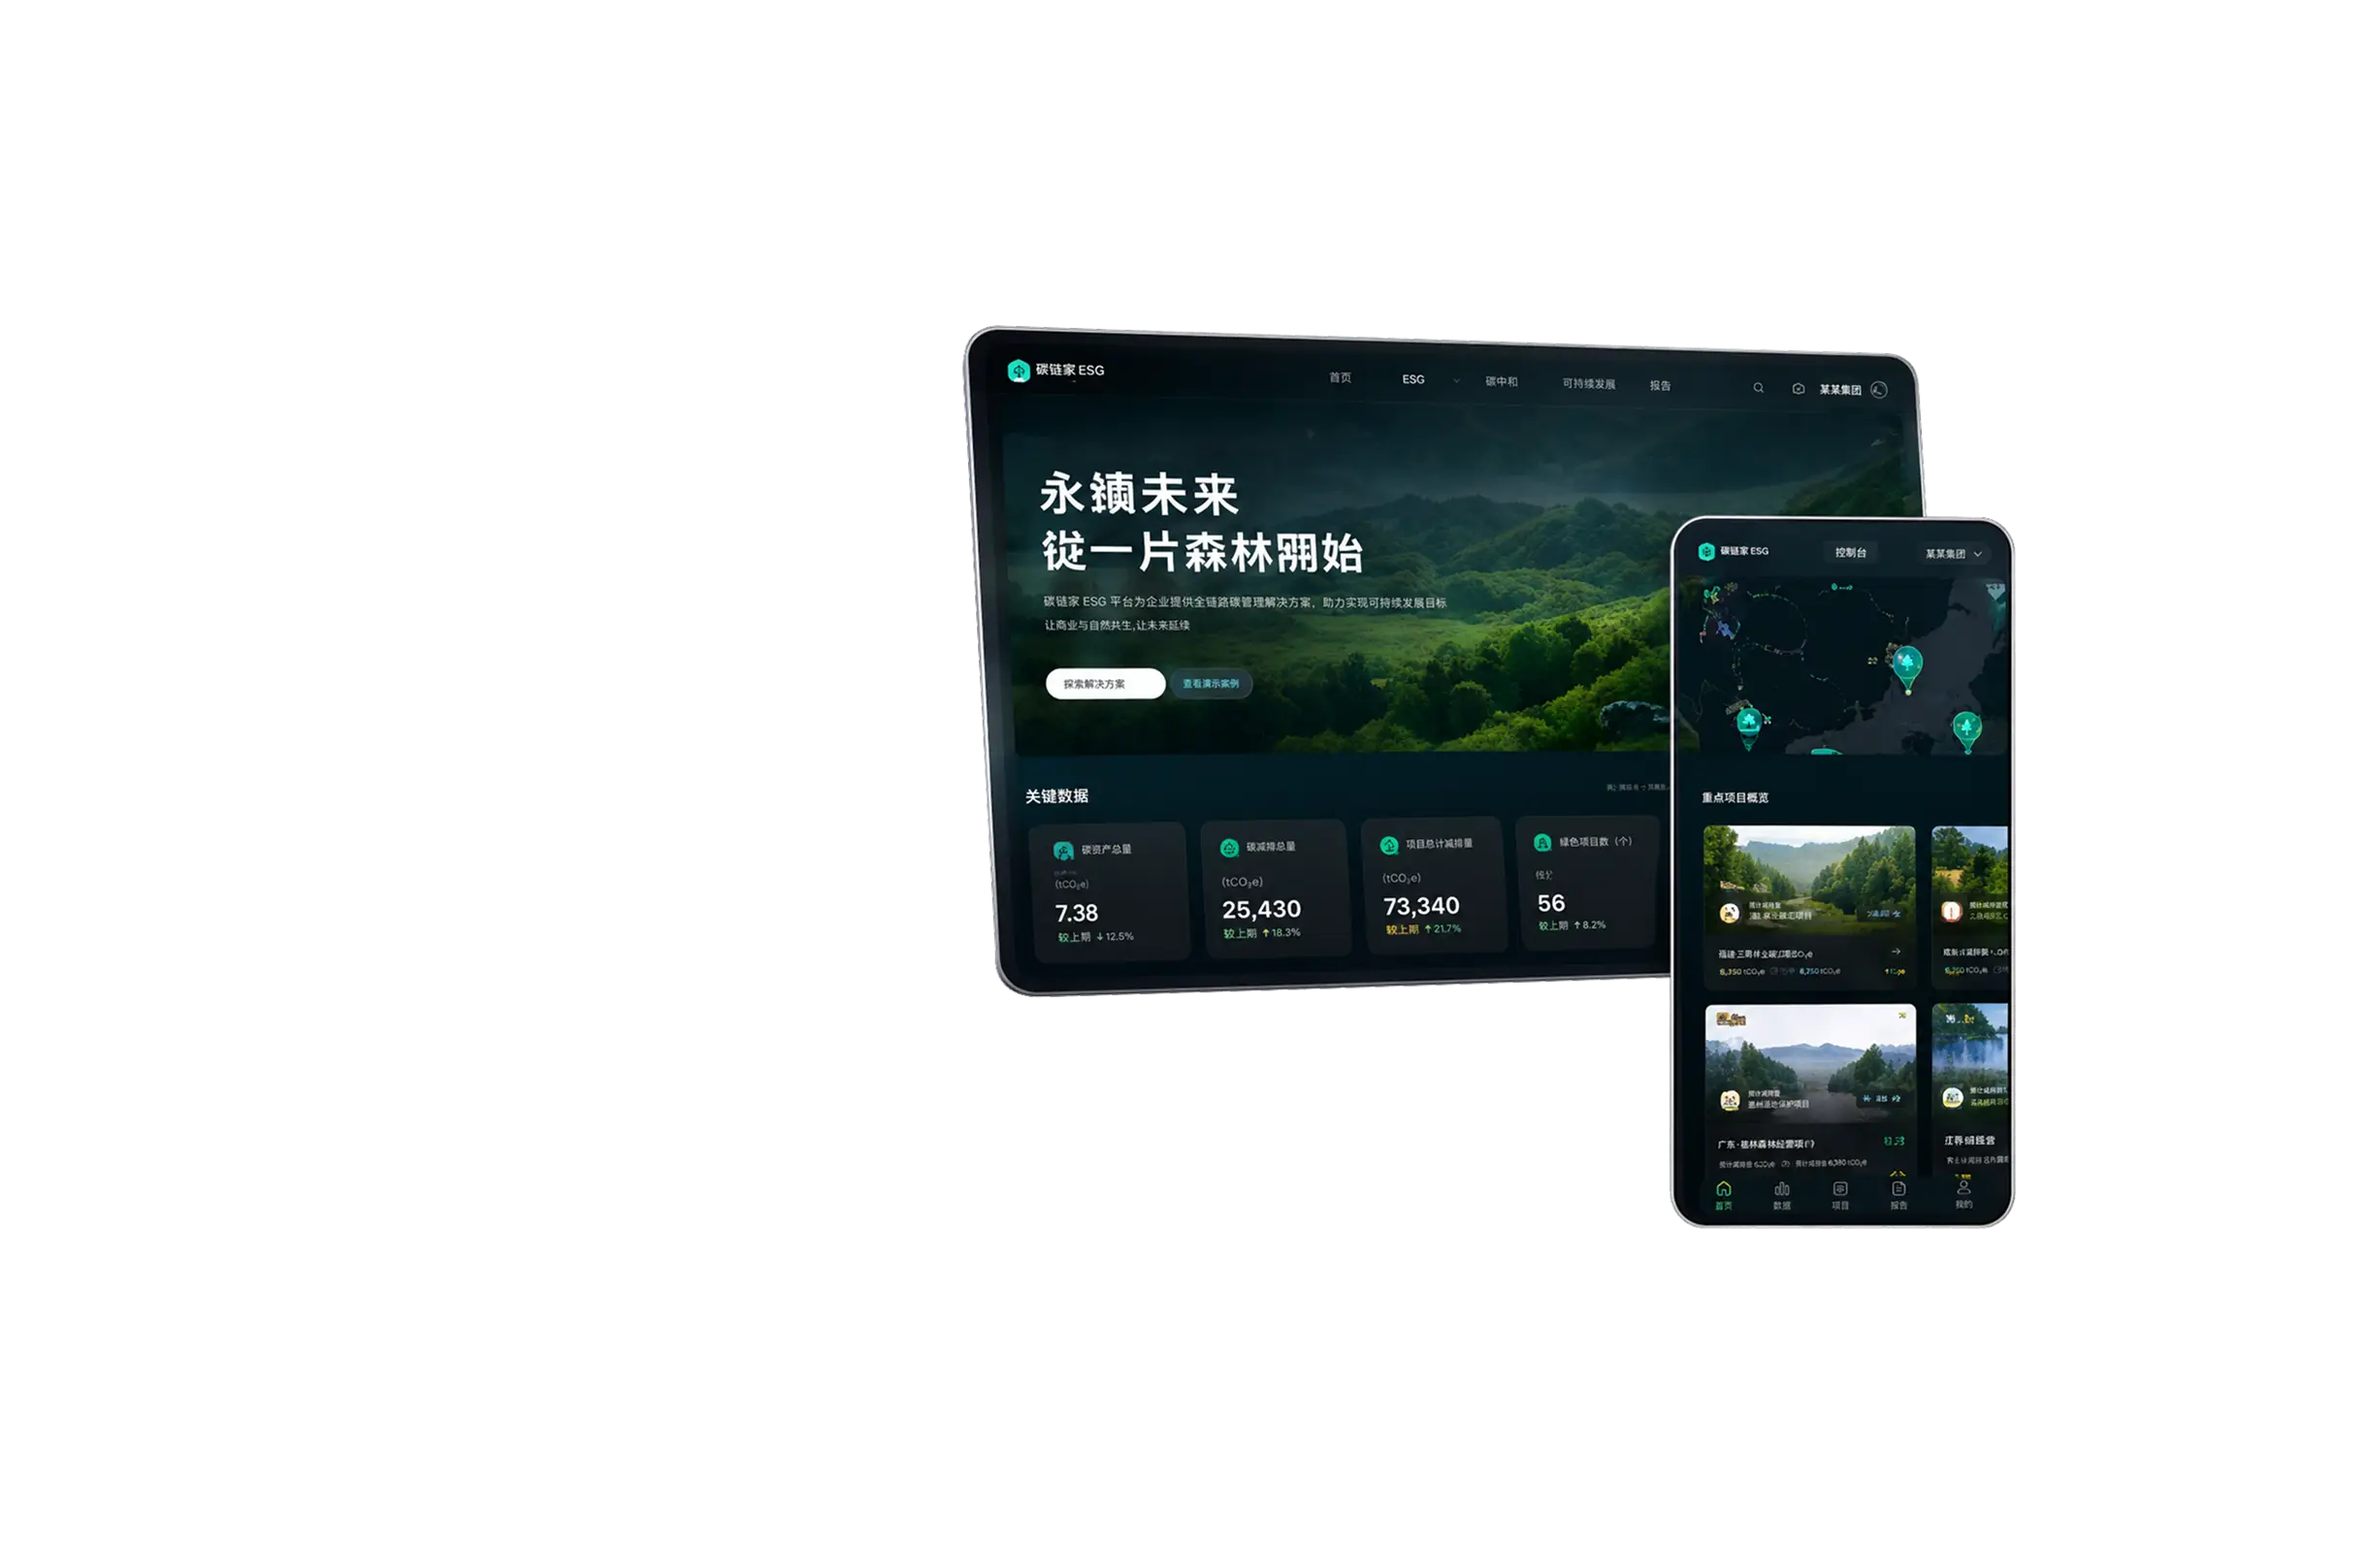
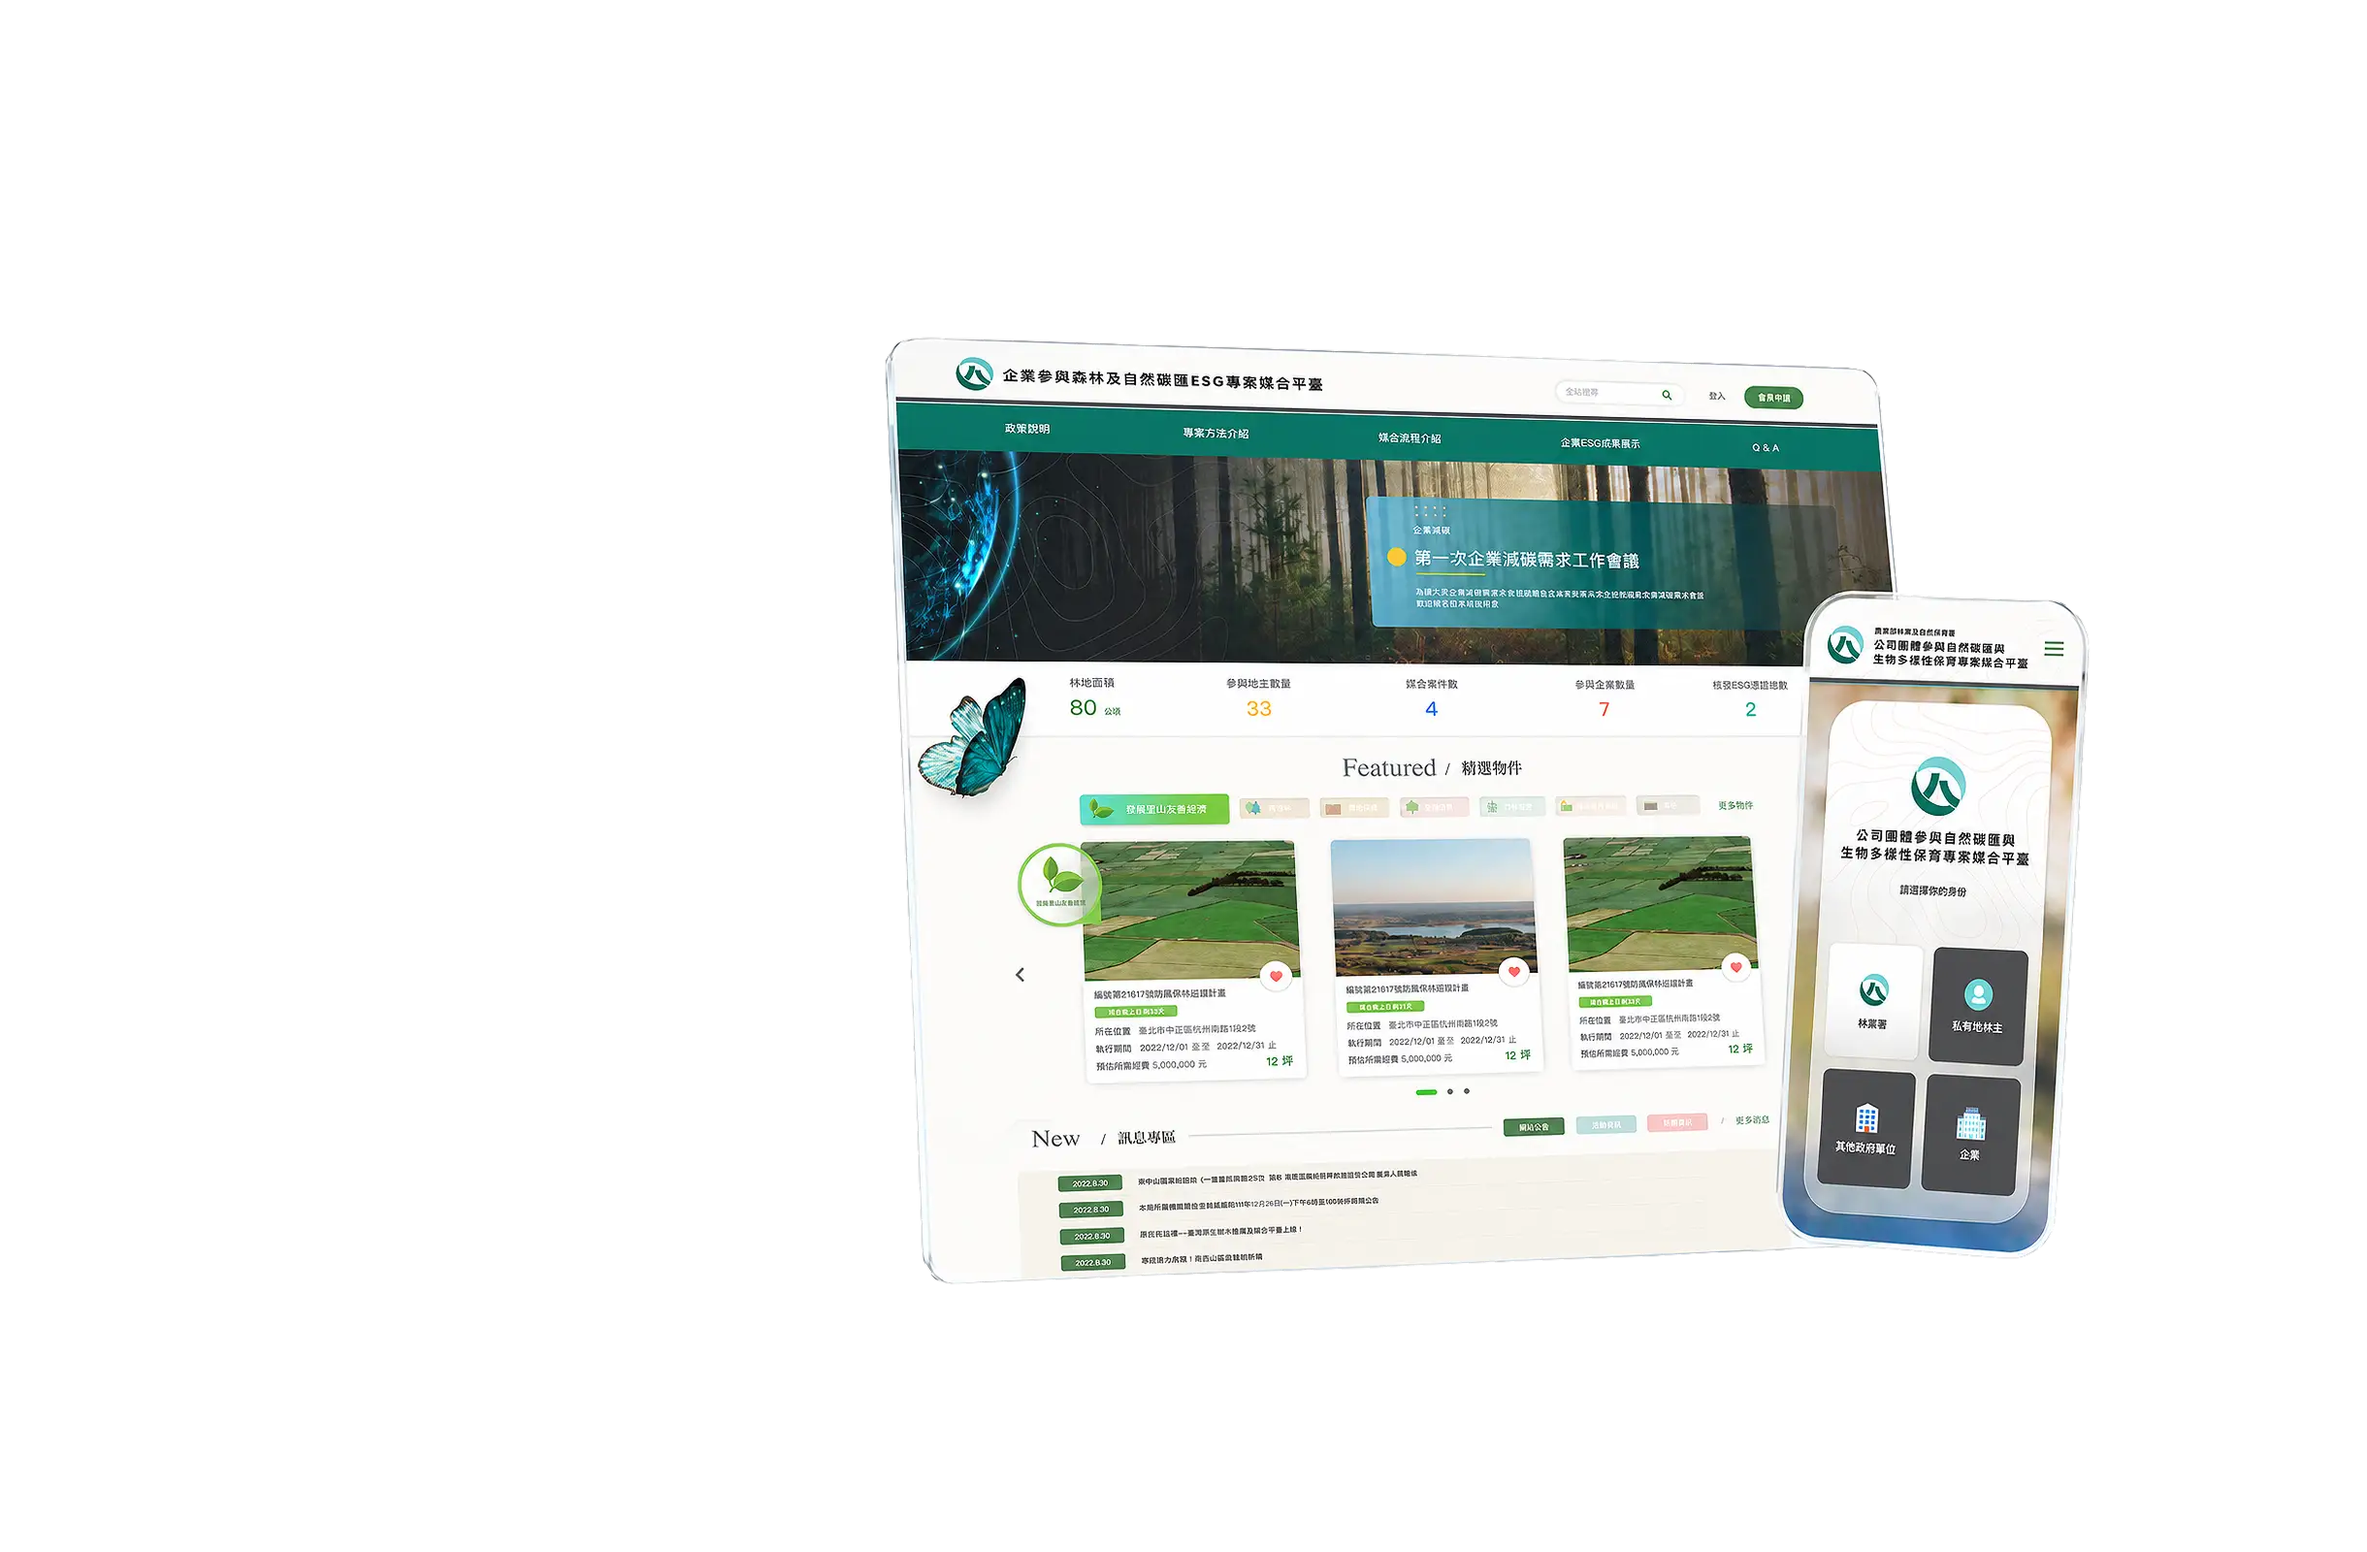
Refine Web detail

Changed region(s): [[0.3738, 0.1875, 0.9033, 0.8125], [0.4361, 0.7188, 0.5918, 0.8438]]

diff --git a/src/components/case-study/ProjectHero.tsx b/src/components/case-study/ProjectHero.tsx
@@ -47,6 +47,8 @@ export function ProjectHero({ project }: ProjectHeroProps) {
   const desktopHeroImage =
     getExistingPublicImage(project.heroImage) ??
     getExistingPublicImage(project.coverImage);
+  const mobileHeroImage =
+    getExistingPublicImage(project.heroMobileImage) ?? desktopHeroImage;
 
   const metaItems: {
     label: keyof typeof metaIcons;
@@ -104,8 +106,8 @@ export function ProjectHero({ project }: ProjectHeroProps) {
           />
         ) : null}
       </div>
-      <div className="pointer-events-none absolute inset-0 -z-20 bg-[linear-gradient(180deg,rgba(250,251,252,0.98)_0%,rgba(250,251,252,0.92)_48%,rgba(245,247,249,0.45)_100%)] md:bg-[linear-gradient(90deg,rgba(250,251,252,0.99)_0%,rgba(250,251,252,0.94)_37%,rgba(250,251,252,0.52)_58%,rgba(245,247,249,0.10)_100%)]" />
-      <div className="pointer-events-none absolute inset-0 -z-10 bg-[linear-gradient(180deg,rgba(255,255,255,0.16)_0%,rgba(244,246,248,0.06)_62%,rgba(244,245,246,0.42)_100%)] md:bg-[linear-gradient(180deg,rgba(255,255,255,0.32)_0%,rgba(244,246,248,0.20)_62%,rgba(244,245,246,0.92)_100%)]" />
+      <div className="pointer-events-none absolute inset-0 -z-20 bg-[linear-gradient(180deg,rgba(250,251,252,0.98)_0%,rgba(250,251,252,0.92)_48%,rgba(245,247,249,0.45)_100%)] md:bg-[linear-gradient(90deg,rgba(250,251,252,0.99)_0%,rgba(250,251,252,0.95)_34%,rgba(250,251,252,0.68)_48%,rgba(245,247,249,0.24)_60%,transparent_72%)]" />
+      <div className="pointer-events-none absolute inset-0 -z-10 bg-[linear-gradient(180deg,rgba(255,255,255,0.16)_0%,rgba(244,246,248,0.06)_62%,rgba(244,245,246,0.42)_100%)] md:bg-[linear-gradient(90deg,rgba(255,255,255,0.14)_0%,rgba(244,246,248,0.05)_48%,transparent_66%)]" />
 
       <div className="mx-auto max-w-7xl px-4 sm:px-6 lg:px-8">
         <div className="grid grid-cols-[3.5rem_minmax(0,1fr)_auto] items-center gap-3 md:grid-cols-[6rem_minmax(0,1fr)_auto] md:gap-6">
@@ -156,7 +158,27 @@ export function ProjectHero({ project }: ProjectHeroProps) {
           </div>
 
           <div className="mt-8 md:hidden">
-            <ProjectVisual project={project} />
+            {mobileHeroImage ? (
+              <div
+                className="relative aspect-[4/3] w-full bg-transparent drop-shadow-[0_18px_24px_rgba(15,23,42,0.16)]"
+                data-project-image={`${project.slug}:${
+                  mobileHeroImage === project.heroMobileImage
+                    ? "hero-mobile"
+                    : "hero"
+                }`}
+              >
+                <Image
+                  src={mobileHeroImage}
+                  alt={`${project.title} 專案主視覺`}
+                  fill
+                  priority
+                  sizes="100vw"
+                  className="object-contain object-center"
+                />
+              </div>
+            ) : (
+              <ProjectVisual project={project} />
+            )}
           </div>
         </div>
 
